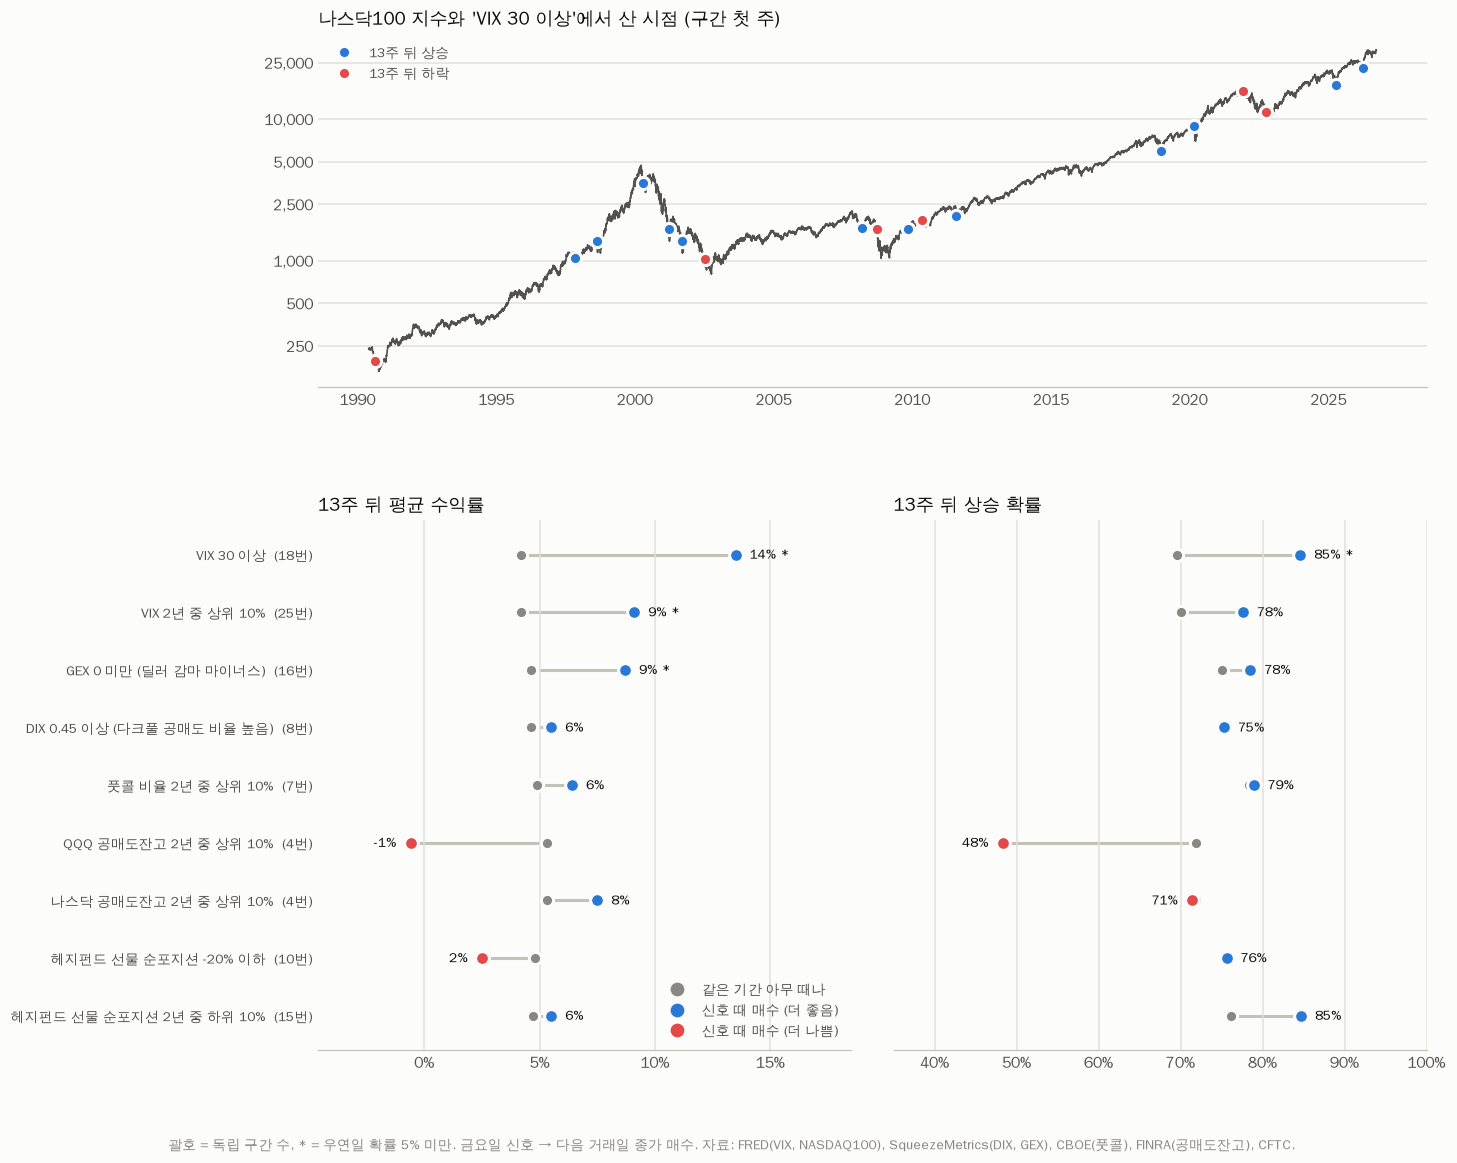
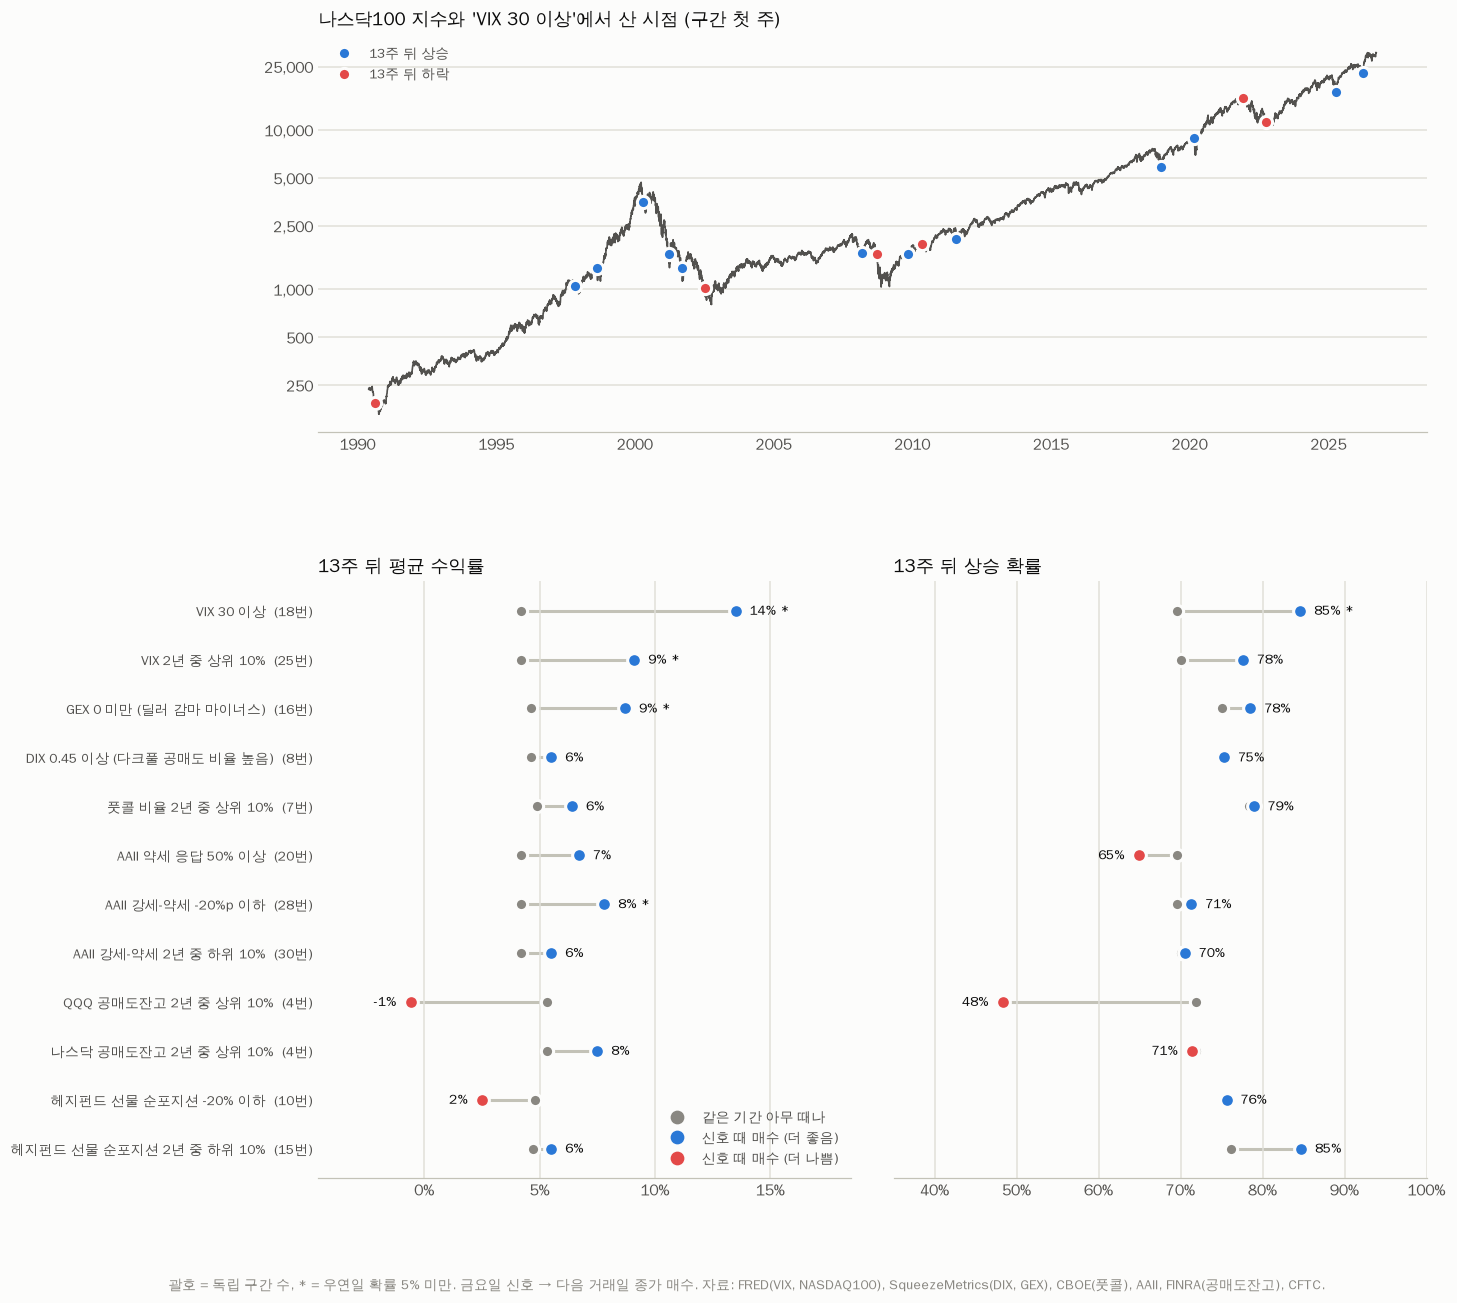
Add the AAII investor sentiment survey to the timing comparison
Download the official AAII sentiment file (1987-2026) with a browser
user agent, cache it under data_us/, and test bearish readings and the
bull-bear spread as NASDAQ-100 buy signals alongside the other
indicators in part 21.

Claude-Session: https://claude.ai/code/session_01UJxqtcFu2jcZK1nrZ7aqw9

diff --git a/stock-prediction/sentiment_timing.py b/stock-prediction/sentiment_timing.py
@@ -1,5 +1,5 @@
 """
-공포·공매도·포지션 지표로 나스닥100 매수 타이밍 잡기: 어떤 지표가 통했나?
+공포·공매도·포지션·설문 지표로 나스닥100 매수 타이밍 잡기: 어떤 지표가 통했나?
 
 지표 (모두 무료 공개 데이터)
 - VIX: S&P500 옵션으로 계산한 공포지수 (FRED VIXCLS, 1990~)
@@ -8,6 +8,8 @@
 - 공매도잔고: FINRA. QQQ(나스닥100 ETF)와 나스닥 상장 종목 전체 (2017.12~)
   공매도잔고 ÷ 하루 평균 거래량 = '며칠치 거래량만큼 공매도가 쌓였나'(days to cover)
 - 헤지펀드 선물 순포지션: CFTC (19·20부와 같은 데이터, 2010~)
+- AAII 투자자 심리조사: 미국 개인투자자협회 회원에게 매주 "앞으로 6개월 주가가 오를까/그대로/내릴까"를 묻는 설문 (1987~)
+  매주 목요일 발표. 강세-약세 차이 = 오른다 % - 내린다 %
 
 방법 (20부와 같음)
 - 매주 금요일까지 발표된 값으로 신호 판단 → 다음 거래일(월요일) 종가에 나스닥100 매수
@@ -18,7 +20,7 @@
 
 실행: python sentiment_timing.py   (처음에는 나스닥 공매도잔고를 받느라 약 20분, 이후 data_us/에 저장된 파일 사용)
 """
-import json
+import io
 import os
 import time
 
@@ -39,6 +41,7 @@ FRED_URL = "https://fred.stlouisfed.org/graph/fredgraph.csv?id={}"
 DIX_URL = "https://squeezemetrics.com/monitor/static/DIX.csv"
 PC_URL = "https://cdn.cboe.com/resources/options/volume_and_call_put_ratios/equitypc.csv"
 FINRA_URL = "https://api.finra.org/data/group/otcMarket/name/consolidatedShortInterest"
+AAII_URL = "https://www.aaii.com/files/surveys/sentiment.xls"
 SI_LAG_DAYS = 12
 RANK_WEEKS = 104
 START = "1990-06-01"
@@ -107,6 +110,25 @@ def load_put_call():
     return pc["P/C Ratio"].astype(float).rolling(10).mean().dropna()
 
 
+def load_aaii():
+    """AAII 설문 엑셀 파일 (브라우저처럼 접속해야 받아짐). 못 받으면 data_us/에 저장해 둔 파일 사용."""
+    path = os.path.join(DATA_DIR, "aaii_sentiment.csv")
+    try:
+        r = requests.get(AAII_URL, timeout=60, headers={"User-Agent": "Mozilla/5.0 (Windows NT 10.0; Win64; x64) "
+                         "AppleWebKit/537.36 (KHTML, like Gecko) Chrome/126.0 Safari/537.36"})
+        r.raise_for_status()
+        x = pd.read_excel(io.BytesIO(r.content), header=None, usecols=range(4))
+        x.columns = ["date", "bullish", "neutral", "bearish"]
+        x["date"] = pd.to_datetime(x["date"], errors="coerce", format="mixed")
+        x = x.dropna(subset=["date"]).set_index("date").apply(pd.to_numeric, errors="coerce").dropna()
+        os.makedirs(DATA_DIR, exist_ok=True)
+        x.to_csv(path)
+    except Exception as e:   # 사이트가 막히면 예전에 받은 파일로
+        print(f"   AAII 다운로드 실패({e}) → {path} 사용")
+        x = pd.read_csv(path, parse_dates=["date"], index_col="date")
+    return x.sort_index()
+
+
 def to_weekly(s, fridays, max_age_days):
     """매주 금요일 기준으로 그때까지 알려진 마지막 값. 너무 오래된 값(데이터가 끊김)은 비움."""
     s = s.dropna().sort_index()
@@ -131,6 +153,7 @@ def build_panel():
     qqq = load_qqq_short()
     nas = load_nasdaq_short(list(qqq.index))
     cftc, _ = C.load_data("2010-01-01")
+    aaii = load_aaii()
 
     fridays = pd.date_range(START, ndx.index[-1], freq="W-FRI")
     W = pd.DataFrame(index=fridays)
@@ -145,6 +168,8 @@ def build_panel():
     net = cftc["net_pct_oi"].copy()
     net.index = net.index + pd.Timedelta(days=3)   # 화요일 기준 → 금요일 발표
     W["헤지펀드 순포지션"] = to_weekly(net, fridays, 10)
+    W["AAII 약세"] = to_weekly(aaii["bearish"] * 100, fridays, 10)
+    W["AAII 강세-약세"] = to_weekly((aaii["bullish"] - aaii["bearish"]) * 100, fridays, 10)
     for col in list(W.columns):
         W[col + " 순위"] = rank_2y(W[col]).reindex(fridays)
 
@@ -167,6 +192,9 @@ SIGNALS = [
     ("GEX 0 미만 (딜러 감마 마이너스)", "GEX", False, lambda W: W["GEX"] < 0),
     ("DIX 0.45 이상 (다크풀 공매도 비율 높음)", "DIX", False, lambda W: W["DIX"] >= 0.45),
     ("풋콜 비율 2년 중 상위 10%", "풋콜", True, lambda W: W["풋콜 순위"] >= 90),
+    ("AAII 약세 응답 50% 이상", "AAII 약세", False, lambda W: W["AAII 약세"] >= 50),
+    ("AAII 강세-약세 -20%p 이하", "AAII 강세-약세", False, lambda W: W["AAII 강세-약세"] <= -20),
+    ("AAII 강세-약세 2년 중 하위 10%", "AAII 강세-약세", True, lambda W: W["AAII 강세-약세 순위"] <= 10),
     ("QQQ 공매도잔고 2년 중 상위 10%", "QQQ 공매도", True, lambda W: W["QQQ 공매도 순위"] >= 90),
     ("나스닥 공매도잔고 2년 중 상위 10%", "나스닥 공매도", True, lambda W: W["나스닥 공매도 순위"] >= 90),
     ("헤지펀드 선물 순포지션 -20% 이하", "헤지펀드 순포지션", False, lambda W: W["헤지펀드 순포지션"] <= -20),
@@ -201,7 +229,7 @@ def evaluate(W):
 
 def draw(W, ndx, table):
     C.set_korean_font()
-    fig = plt.figure(figsize=(13, 12), facecolor=C.SURFACE)
+    fig = plt.figure(figsize=(13, 13.5), facecolor=C.SURFACE)
     gs = fig.add_gridspec(2, 2, height_ratios=[0.8, 1.2], hspace=0.3, wspace=0.08)
     ax_t, ax_m, ax_h = fig.add_subplot(gs[0, :]), fig.add_subplot(gs[1, 0]), fig.add_subplot(gs[1, 1])
     for ax in (ax_t, ax_m, ax_h):
@@ -263,7 +291,7 @@ def draw(W, ndx, table):
     ax_m.legend(loc="lower right", frameon=False, fontsize=9, labelcolor=C.INK2)
 
     fig.text(0.02, 0.035, "괄호 = 독립 구간 수, * = 우연일 확률 5% 미만. 금요일 신호 → 다음 거래일 종가 매수. "
-             "자료: FRED(VIX, NASDAQ100), SqueezeMetrics(DIX, GEX), CBOE(풋콜), FINRA(공매도잔고), CFTC.",
+             "자료: FRED(VIX, NASDAQ100), SqueezeMetrics(DIX, GEX), CBOE(풋콜), AAII, FINRA(공매도잔고), CFTC.",
              color=C.MUTED, fontsize=9)
     plt.savefig(os.path.join(C.RESULT_DIR, "sentiment_timing.png"), dpi=110, bbox_inches="tight", facecolor=C.SURFACE)
     plt.close()

diff --git a/stock-prediction/README.md b/stock-prediction/README.md
@@ -29,7 +29,7 @@ python largecap_ma.py && MARKET=us python largecap_ma.py && python largecap_ma.p
 python largecap_exit_search.py && MARKET=us python largecap_exit_search.py && python largecap_exit_search.py summary   # 더 나은 매도 찾기 (앞에 TOP=10 을 붙이면 거래대금 상위 10위)
 python cftc_nasdaq.py      # 헤지펀드 나스닥100 선물 순포지션 vs 지수 10년 비교 (약 10초)
 python cftc_contrarian.py  # 순포지션이 크게 마이너스일 때 역발상 매수 검증 (약 10초)
-python sentiment_timing.py # 공포·공매도·포지션 지표 매수 신호 비교 (처음 약 20분, 이후 약 10초)
+python sentiment_timing.py # 공포·공매도·포지션·설문 지표 매수 신호 비교 (처음 약 20분, 이후 약 10초)
 ```
 
 ## 무엇을 예측하나?
@@ -754,7 +754,7 @@ Goldman Sachs 그래프("Leveraged fund positions in NASDAQ-100 futures")의 원
 
 ---
 
-# 21부: 공포·공매도·포지션 지표로 매수 타이밍 잡기 (`sentiment_timing.py`)
+# 21부: 공포·공매도·포지션·설문 지표로 매수 타이밍 잡기 (`sentiment_timing.py`)
 
 20부에서 헤지펀드 선물 순포지션은 매수 신호가 되지 못했습니다. 그래서 "시장이 겁먹었을 때"를 보여주는 다른 무료 지표들을 같은 방법으로 비교했습니다.
 
@@ -766,11 +766,13 @@ Goldman Sachs 그래프("Leveraged fund positions in NASDAQ-100 futures")의 원
 | 풋콜 비율 | 주식옵션 풋(하락 베팅) ÷ 콜(상승 베팅) 거래량, 10일 평균 | CBOE | 2006~2019.10 (이후 무료 파일 없음) |
 | 공매도잔고 | 공매도잔고 ÷ 하루 평균 거래량 (며칠치 거래량만큼 쌓였나). QQQ와 나스닥 상장 종목 전체 | FINRA | 2017.12~ |
 | 헤지펀드 선물 순포지션 | 19·20부 | CFTC | 2010~ |
+| AAII 투자자 심리조사 | 미국 개인투자자협회 회원에게 매주 "6개월 뒤 주가가 오를까/그대로/내릴까"를 묻는 설문. 목요일 발표. 강세-약세 차이 = 오른다 % - 내린다 % | AAII 공식 엑셀 파일 | 1987~ |
 
 - **매수 시점:** 매주 금요일까지 발표된 값으로 판단 → 다음 거래일 종가에 나스닥100 매수. 공매도잔고는 결제일 약 8영업일 뒤 발표되므로 결제일 + 12일부터 씀
 - **"2년 중 상위/하위 10%":** 최근 104주 값 중 순위 (그때까지 알 수 있는 값만 사용)
 - **비교 기준:** 같은 지표를 쓸 수 있는 같은 기간에 아무 주에나 샀을 때
-- 한국 공매도잔고(KRX), AAII 투자자 심리조사, CNN 공포·탐욕 지수는 자동으로 받을 수 없어 빠졌습니다
+- AAII 파일은 일반 프로그램 접속을 막아서 브라우저처럼 접속해 받습니다. 받은 값은 `data_us/aaii_sentiment.csv`에 저장해 두고, 다음에 막히면 그 파일을 씁니다
+- 한국 공매도잔고(KRX), CNN 공포·탐욕 지수는 자동으로 받을 수 없어 빠졌습니다
 
 ![공포·공매도 지표 비교](results_us/sentiment_timing.png)
 
@@ -783,25 +785,34 @@ Goldman Sachs 그래프("Leveraged fund positions in NASDAQ-100 futures")의 원
 | GEX 0 미만 | 2011~2026 | 16 | **+8.7%** (+4.6%) | **0.01** | 78% (75%) | 0.44 | -16.3% |
 | DIX 0.45 이상 | 2011~2026 | 8 | +5.5% (+4.6%) | 0.07 | 75% (75%) | 0.59 | -22.3% |
 | 풋콜 비율 2년 중 상위 10% | 2008~2019 | 7 | +6.4% (+4.9%) | 0.28 | 79% (78%) | 0.56 | -11.7% |
+| AAII 약세 응답 50% 이상 | 1990~2026 | 20 | +6.7% (+4.2%) | 0.15 | 65% (70%) | 0.74 | -29.4% |
+| AAII 강세-약세 -20%p 이하 | 1990~2026 | 28 | **+7.8%** (+4.2%) | **0.04** | 71% (70%) | 0.46 | -29.4% |
+| AAII 강세-약세 2년 중 하위 10% | 1992~2026 | 30 | +5.5% (+4.2%) | 0.19 | 70% (70%) | 0.50 | -32.3% |
 | QQQ 공매도잔고 2년 중 상위 10% | 2020~2026 | 4 | -0.6% (+5.3%) | 0.84 | 48% (72%) | 0.87 | -20.7% |
 | 나스닥 공매도잔고 2년 중 상위 10% | 2020~2026 | 4 | +7.5% (+5.3%) | 0.26 | 71% (72%) | 0.50 | -8.7% |
 | 헤지펀드 선물 순포지션 -20% 이하 | 2010~2026 | 10 | +2.5% (+4.8%) | 0.84 | 76% (75%) | 0.59 | -21.8% |
 | 헤지펀드 선물 순포지션 2년 중 하위 10% | 2012~2026 | 15 | +5.5% (+4.7%) | 0.27 | 85% (76%) | 0.12 | -21.8% |
 
-VIX 30 이상을 기간을 나눠 보면 (13주 뒤):
+기간을 나눠 보면 (13주 뒤):
 
-| 기간 | 독립 구간 | 평균 수익 (기준) | 상승 확률 (기준) |
-|---|---|---|---|
-| 1990~2007 | 7 | +19.5% (+4.1%) | 94% (65%) |
-| 2008~2026 | 11 | +9.8% (+4.3%) | 79% (74%) |
+| 신호 | 기간 | 독립 구간 | 평균 수익 (기준) | 상승 확률 (기준) |
+|---|---|---|---|---|
+| VIX 30 이상 | 1990~2007 | 7 | +19.5% (+4.1%) | 94% (65%) |
+| | 2008~2026 | 11 | +9.8% (+4.3%) | 79% (74%) |
+| AAII 강세-약세 -20%p 이하 | 1990~2007 | 13 | +11.0% (+4.1%) | 78% (65%) |
+| | 2008~2026 | 16 | +6.3% (+4.3%) | **68% (74%)** |
+| VIX 30 이상 + AAII -20%p 이하 (둘 다) | 1990~2026 | 13 | +12.4% (+4.2%) | 77% (70%) |
+
+**지금 상태:** 9월 17일 발표 AAII 설문에서 약세 53.3%, 강세-약세 차이 -24.5%p로 AAII 신호가 켜졌습니다(9월 24일 발표는 약세 48.1%, 차이 -15.4%p). 반면 VIX는 14~15로 30과 거리가 멉니다. 개인 설문은 비관적이지만 시장 가격에는 공포가 나타나지 않은 상태입니다.
 
 ## 해석
 1. **확실하게 통한 것은 VIX(공포지수)뿐이었습니다.** VIX가 30 이상일 때 사면 13주 뒤 평균 +13.5%로 평소(+4.2%)의 3배였고, 두 기간 모두에서 평균 수익이 더 높았습니다. 다만 2008년 이후에는 오를 확률 차이(79% vs 74%)가 작아서 **"대체로 크게 반등하지만 항상 맞지는 않는다"**에 가깝습니다. 2008년 9월처럼 13주 뒤 -27%까지 더 빠진 경우도 있습니다.
 2. **GEX 마이너스도 평균 수익은 높았지만 오를 확률은 평소와 비슷했습니다.** 변동성이 큰 구간이라 크게 오르거나 크게 빠지는 쪽으로 벌어졌다는 뜻입니다.
 3. **공매도잔고는 매수 신호가 되지 못했습니다.** QQQ 공매도잔고가 많을 때는 오히려 13주 뒤 평균 -0.6%, 오를 확률 48%로 나빴습니다(2022년 하락장). 나스닥 전체 공매도잔고는 조금 나았지만 우연일 확률이 26%입니다. 무료 공매도잔고 자료가 2017년 말부터라 독립 구간도 4번뿐이어서 판단하기에는 짧습니다.
-4. **DIX, 풋콜 비율, 헤지펀드 순포지션은 평소와 큰 차이가 없었습니다.**
-5. **정리:** "남들이 공매도나 숏을 많이 했을 때"보다 **"시장 전체가 실제로 겁먹었을 때(VIX 급등)"**가 더 나은 매수 타이밍이었습니다. 공매도·숏 포지션은 헤지나 차익거래도 섞여 있어 공포를 깨끗하게 보여주지 못하는 것으로 보입니다.
-6. **주의:** VIX 30 이상은 36년 동안 18번뿐입니다. 한 번 신호가 나면 몇 주씩 이어지고, 신호 뒤에도 더 빠질 수 있어 **한 번에 다 사기보다 나눠 사는 방식**과 함께 보는 것이 안전합니다. 나스닥 전체 공매도잔고는 FINRA 분류상 종목 수가 2,355개(2017) → 3,862개(2026)로 늘어 비교에 오차가 있을 수 있습니다.
+4. **AAII 설문은 "평균은 좋지만 확률은 평소와 같은" 신호였습니다.** 강세-약세 차이가 -20%p 이하일 때 사면 13주 뒤 평균 +7.8%로 평소(+4.2%)보다 높았지만, 오를 확률은 71%로 평소(70%)와 같았습니다. 2020년 3월(+39%), 1998년 8월(+37%)처럼 크게 반등한 몇 번이 평균을 끌어올렸습니다. **2008년 이후에는 오를 확률이 오히려 평소보다 낮았습니다**(68% vs 74%). AAII를 VIX와 함께 써도 VIX 하나만 쓸 때보다 나아지지 않았습니다.
+5. **DIX, 풋콜 비율, 헤지펀드 순포지션은 평소와 큰 차이가 없었습니다.**
+6. **정리:** "남들이 공매도나 숏을 많이 했을 때", "개인들이 비관적이라고 답했을 때"보다 **"시장 가격에 공포가 실제로 나타났을 때(VIX 급등)"**가 더 나은 매수 타이밍이었습니다. 공매도·숏 포지션은 헤지나 차익거래도 섞여 있고, 설문은 말과 실제 행동이 다를 수 있어 공포를 깨끗하게 보여주지 못하는 것으로 보입니다.
+7. **주의:** VIX 30 이상은 36년 동안 18번뿐입니다. 한 번 신호가 나면 몇 주씩 이어지고, 신호 뒤에도 더 빠질 수 있어 **한 번에 다 사기보다 나눠 사는 방식**과 함께 보는 것이 안전합니다. 나스닥 전체 공매도잔고는 FINRA 분류상 종목 수가 2,355개(2017) → 3,862개(2026)로 늘어 비교에 오차가 있을 수 있습니다.
 
 ## 파일 구성
 
@@ -847,6 +858,6 @@ VIX 30 이상을 기간을 나눠 보면 (13주 뒤):
 | `results_us/cftc_nasdaq.png`, `cftc_nasdaq.csv`, `cftc_nasdaq_forward.csv` | 19부 그래프, 주간 데이터, 5구간별 이후 수익률 |
 | `cftc_contrarian.py` | 순포지션이 크게 마이너스일 때 역발상 매수 검증 (상관관계, 신호 6개, 날짜 밀기 비교) |
 | `results_us/cftc_contrarian.png`, `cftc_contrarian.csv`, `cftc_contrarian_corr.csv`, `cftc_contrarian_episodes.csv` | 20부 그래프, 신호별 결과, 상관관계, 구간별 결과 |
-| `sentiment_timing.py` | VIX·GEX·DIX·풋콜·공매도잔고·헤지펀드 순포지션 매수 신호 비교 (나스닥 공매도잔고는 `data_us/`에 저장해 재사용) |
+| `sentiment_timing.py` | VIX·GEX·DIX·풋콜·AAII 설문·공매도잔고·헤지펀드 순포지션 매수 신호 비교 (나스닥 공매도잔고·AAII는 `data_us/`에 저장해 재사용) |
 | `results_us/sentiment_timing.png`, `sentiment_timing.csv`, `sentiment_timing_episodes.csv` | 21부 그래프, 신호별 결과, 신호 구간별 결과 |
 | `data/` | 받은 주가 데이터 (용량 문제로 저장소에는 올리지 않음) |
